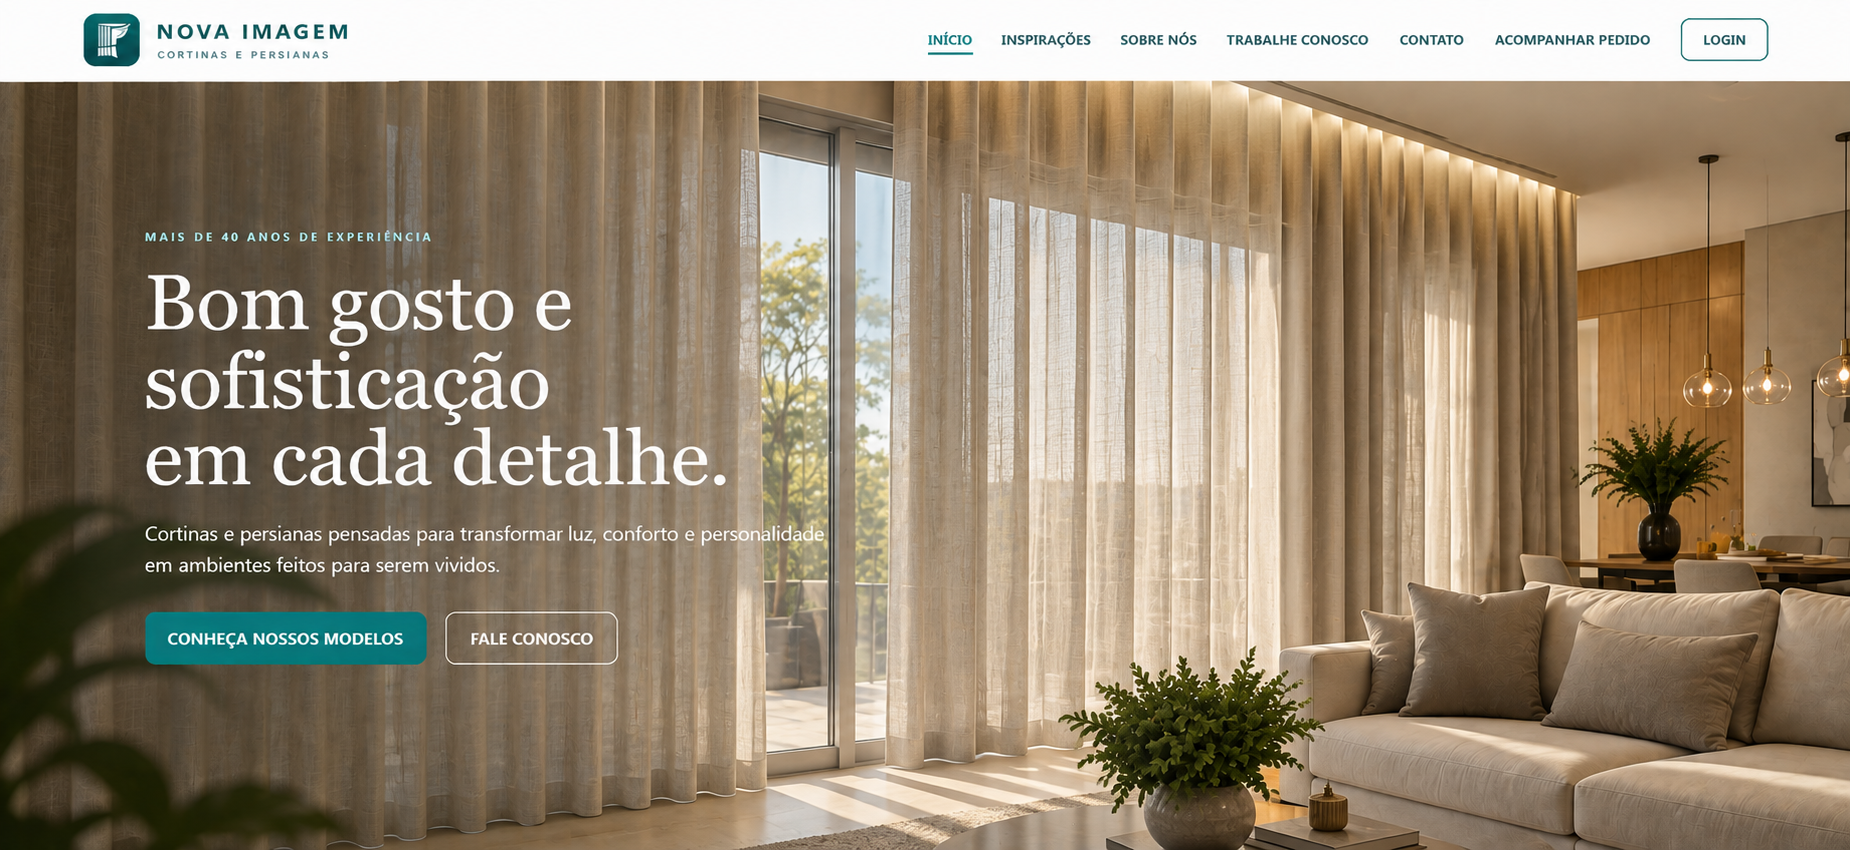
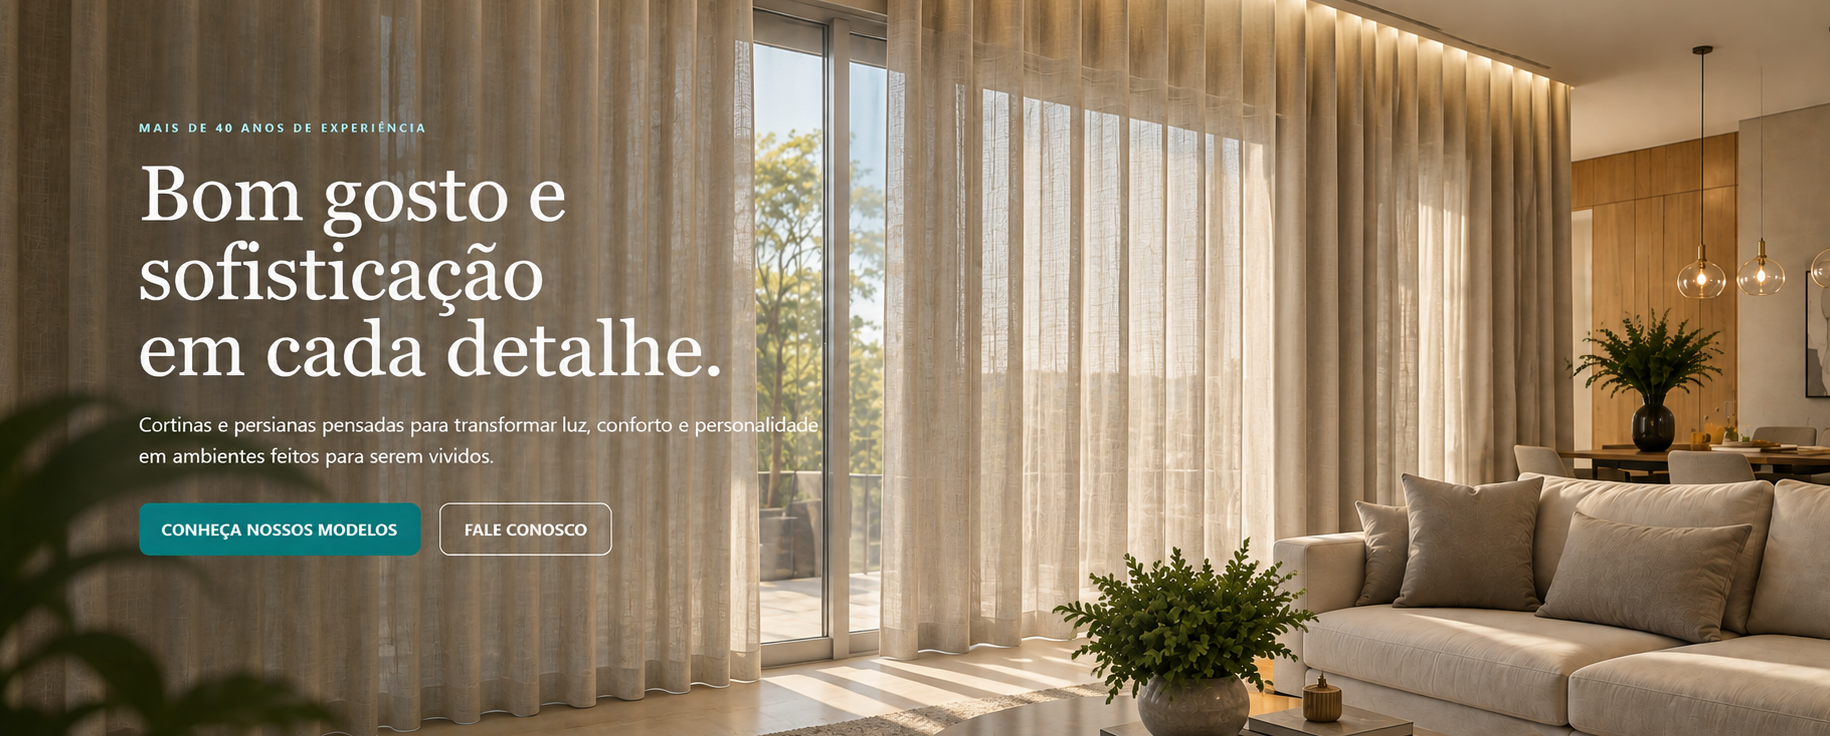
Add files via upload

diff --git a/app.js b/app.js
@@ -3523,3 +3523,97 @@ function payrollRows(competence){const h=hrData(),rows=[];for(const e of h.emplo
   const v126Boot=()=>setTimeout(()=>{v126BindOrderFilters();v126FillOrderSellers();v126SyncFixButton();v126BindFixButton();try{renderOrders()}catch(e){console.error('V12.6.1 renderOrders',e)}try{renderQuote()}catch(e){console.error('V12.6.1 renderQuote',e)}},300);
   if(document.readyState==='loading')document.addEventListener('DOMContentLoaded',v126Boot);else v126Boot();
 })();
+
+
+
+/* ============================================================================
+   V12.6.2 • CORREÇÃO DEFINITIVA DE AMBIENTE/FIXAÇÃO + CHECKLIST DE CONVERSÃO
+   ============================================================================ */
+(function(){
+  const V1262='V12.6.2';
+  try{companySettings().version=V1262}catch(_){}
+  let v1262ExcludeFixation=false;
+  let v1262EditingEnvId=null;
+  function v1262Set(id,val){const el=$(id);if(el&&val!==undefined&&val!==null)el.value=String(val)}
+  function v1262ApplyFixUi(){
+    const hidden=v1262ExcludeFixation;
+    ['eFixationWrap','eRailProductWrap','eFixColorWrap','eSupportMaterialWrap','eFinishTubeWrap','eLiningTubeWrap','eMotorAngleWrap'].forEach(id=>{
+      const el=$(id);if(!el)return;
+      if(hidden){if(el.dataset.v1262OldDisplay===undefined)el.dataset.v1262OldDisplay=el.style.display||'';el.style.display='none'}
+      else el.style.display=el.dataset.v1262OldDisplay||'';
+    });
+    const b=$('toggleEnvFixBtn');if(b){b.textContent=hidden?'RESTAURAR FIXAÇÃO':'EXCLUIR FIXAÇÃO';b.className='btn '+(hidden?'danger':'secondary')}
+    if(!hidden){try{typeof v12RefreshFixations==='function'&&v12RefreshFixations()}catch(_){}try{typeof updateModelFields==='function'&&updateModelFields()}catch(_){}}
+  }
+  const oldEnvFromForm1262=envFromForm;
+  envFromForm=function(){const e=oldEnvFromForm1262();e.excludeFixation=!!v1262ExcludeFixation;return e};
+  const oldClearEnv1262=clearEnv;
+  clearEnv=function(){const r=oldClearEnv1262();v1262ExcludeFixation=false;v1262EditingEnvId=null;if($('addEnvBtn'))$('addEnvBtn').textContent='+ Adicionar ambiente';v1262ApplyFixUi();try{updatePreview()}catch(_){}return r};
+  function v1262LoadEnvironment(e){
+    if(!e)return;v1262EditingEnvId=e.id;v1262ExcludeFixation=!!e.excludeFixation;
+    v1262Set('eModel',e.model);try{updateModelFields()}catch(_){}
+    v1262Set('eName',e.name);v1262Set('eWidth',e.width);v1262Set('eHeight',e.height);v1262Set('eLeaves',e.leaves);
+    v1262Set('eFinish',e.finish);try{refreshFinishColors()}catch(_){}v1262Set('eFinishColor',e.finishColor);v1262Set('eFinishPleat',e.finishPleat);v1262Set('eFinishGather',e.finishGather);
+    v1262Set('eLining',e.lining);try{refreshLiningColors()}catch(_){}v1262Set('eLiningColor',e.liningColor);v1262Set('eLiningPleat',e.liningPleat);v1262Set('eLiningGather',e.liningGather);
+    v1262Set('eFixation',e.fixation);try{refreshFixColors()}catch(_){}try{typeof v12RefreshFixations==='function'&&v12RefreshFixations()}catch(_){}
+    v1262Set('eRailProduct',e.railProductId||e.fixProductId||'');v1262Set('eFixColor',e.fixColor);v1262Set('eSupportMaterial',e.supportMaterial||'ALUMINIO');
+    v1262Set('eFinishTube',e.finishTubeProductId||e.finishTube||'');v1262Set('eLiningTube',e.liningTubeProductId||e.liningTube||'');
+    v1262Set('eFinishBar',e.finishBar||'BARRA SIMPLES');v1262Set('eSoutacheColor',e.soutacheColor||'');v1262Set('eCustomPleat',e.customPleat||0);v1262Set('eNotes',e.notes||'');
+    if($('eAngle')){$('eAngle').checked=!!e.angle;try{$('eAngle').dispatchEvent(new Event('change',{bubbles:true}))}catch(_){}}
+    v1262Set('eAngleA',e.angleA||'');v1262Set('eAngleAHeight',e.angleAHeight||'');v1262Set('eAngleB',e.angleB||'');v1262Set('eAngleBHeight',e.angleBHeight||'');v1262Set('eMotorAngleMode',e.motorAngleMode||'CURVA');
+    if($('addEnvBtn'))$('addEnvBtn').textContent='SALVAR EDIÇÕES';v1262ApplyFixUi();try{updatePreview()}catch(_){}$('eName')?.scrollIntoView({behavior:'smooth',block:'center'});
+  }
+  const oldRenderQuote1262=renderQuote;
+  renderQuote=function(){
+    oldRenderQuote1262();
+    document.querySelectorAll('#envTable [data-del-env]').forEach(del=>{
+      const id=String(del.dataset.delEnv||''),cell=del.closest('td')||del.parentElement;if(!cell)return;
+      let edit=cell.querySelector('[data-edit-env]');
+      if(!edit){edit=document.createElement('button');edit.type='button';edit.className='btn secondary';edit.dataset.editEnv=id;edit.textContent='Editar';edit.style.marginRight='6px';cell.insertBefore(edit,del)}
+      edit.onclick=()=>{const env=(draft.environments||[]).find(x=>String(x.id)===id);if(!env)return alert('Ambiente não encontrado.');v1262LoadEnvironment(env)};
+    });
+    v1262ApplyFixUi();
+  };
+  window.addEventListener('click',function(ev){
+    const t=ev.target;
+    if(t?.id==='toggleEnvFixBtn'){ev.preventDefault();ev.stopImmediatePropagation();v1262ExcludeFixation=!v1262ExcludeFixation;v1262ApplyFixUi();try{updatePreview()}catch(e){console.error('V12.6.2 preview fixação',e)}return}
+    if(t?.id==='addEnvBtn'&&v1262EditingEnvId){
+      ev.preventDefault();ev.stopImmediatePropagation();const e=envFromForm();
+      if(!e.name||!e.width||!e.height)return alert('Preencha ambiente, largura e altura.');
+      if(!e.excludeFixation&&e.fixation==='TRILHO SUÍÇO'&&!e.railProductId)return alert('Selecione o Tipo de Trilho no estoque oficial.');
+      const i=(draft.environments||[]).findIndex(x=>String(x.id)===String(v1262EditingEnvId));if(i<0)return alert('Ambiente não encontrado para edição.');
+      e.id=v1262EditingEnvId;draft.environments[i]=e;v1262EditingEnvId=null;v1262ExcludeFixation=false;renderQuote();clearEnv();return;
+    }
+  },true);
+  const oldConvertQuote1262=convertQuote;
+  function addr1262(q){return [[q.street,q.number].filter(Boolean).join(', '),q.complement,q.neighborhood,q.cep?`CEP ${q.cep}`:''].filter(Boolean).join(' • ')||q.address||'-'}
+  function cond1262(cond,installments){if(cond==='cash')return 'À VISTA (PIX/DINHEIRO)';if(cond==='p4')return 'EM ATÉ 4X';if(cond==='p18')return '18X';if(cond==='custom')return `OUTRO • ${Math.max(1,Number(installments||1))} parcela(s)`;return cond||'-'}
+  function envRow1262(e){
+    const details=[];details.push(e.model==='COMPLETE'?'Cortina completa':e.model==='LINING'?'Apenas forro':'Apenas acabamento');
+    if(e.finish)details.push(`Acabamento: ${e.finish}${e.finishColor?' / '+e.finishColor:''}${e.finishPleat?' / '+e.finishPleat+' '+(e.finishGather||'')+':1':''}`);
+    if(e.lining)details.push(`Forro: ${e.lining}${e.liningColor?' / '+e.liningColor:''}${e.liningPleat?' / '+e.liningPleat+' '+(e.liningGather||'')+':1':''}`);
+    if(e.finishBar)details.push(`Barra: ${e.finishBar}${e.soutacheColor?' / '+e.soutacheColor:''}`);
+    const fix=e.excludeFixation?'FIXAÇÃO EXCLUÍDA PARA ESTA PEÇA':[e.fixation,e.fixColor].filter(Boolean).join(' • ');
+    return `<tr><td><strong>${esc(e.name||'-')}</strong></td><td>${Number(e.width||0)} × ${Number(e.height||0)} cm</td><td>${Math.max(0,Number(e.leaves||1)-1)}</td><td>${details.map(esc).join('<br>')}</td><td>${esc(fix||'-')}</td></tr>`;
+  }
+  function installChecklist1262(q){
+    const btn=$('convGo');if(!btn||$('convChecklistBox'))return;
+    const box=document.createElement('div');box.id='convChecklistBox';box.style.cssText='margin:14px 0;border:1px solid #c7d8d6;border-radius:10px;overflow:hidden;background:#fff';
+    box.innerHTML=`<div style="background:#e8f3f1;color:#075b5b;font-weight:900;padding:10px 12px">CHECKLIST ANTES DE GERAR O PEDIDO</div><div style="padding:10px 12px"><div class="grid two" style="margin-bottom:10px"><div><small class="muted">NOME DO CLIENTE</small><br><strong>${esc(q.client||'-')}</strong></div><div><small class="muted">ENDEREÇO</small><br><strong>${esc(addr1262(q))}</strong></div><div><small class="muted">CONDIÇÃO ESCOLHIDA</small><br><strong id="convChecklistCondition">-</strong></div><div><small class="muted">DATA DE INSTALAÇÃO</small><br><strong id="convChecklistDate">-</strong></div><div><small class="muted">VALOR TOTAL DO PEDIDO</small><br><strong id="convChecklistTotal">-</strong></div></div><div style="font-weight:900;color:#075b5b;margin:8px 0 5px">RESUMO POR AMBIENTE</div><div class="table-wrap"><table class="table"><thead><tr><th>Ambiente</th><th>Largura × Altura</th><th>Aberturas</th><th>Detalhes / barra / cores</th><th>Fixação</th></tr></thead><tbody>${(q.environments||[]).map(envRow1262).join('')||'<tr><td colspan="5">Nenhum ambiente.</td></tr>'}</tbody></table></div><label style="display:flex;gap:8px;align-items:flex-start;margin-top:12px;font-weight:800"><input id="convChecklistOk" type="checkbox" style="margin-top:2px">CONFERI OS DADOS ACIMA E AUTORIZO A GERAÇÃO DO PEDIDO.</label></div>`;
+    btn.parentNode.insertBefore(box,btn);
+    function refresh(){const condition=$('convCond')?.value||'cash',installments=$('convInstallments')?.value||'',date=$('convDate')?.value||'',disc=Number($('convDiscount')?.value||0),t=quoteTotals(q);let base=condition==='cash'?t.cash:condition==='p18'?t.p18:t.p4;base=Number(base||0)*(1-disc/100);$('convChecklistCondition').textContent=cond1262(condition,installments);$('convChecklistDate').textContent=date?fmtDate(date):'NÃO INFORMADA';$('convChecklistTotal').textContent=money(base)}
+    ['convCond','convInstallments','convDate','convDiscount'].forEach(id=>{const el=$(id);if(el){el.addEventListener('input',refresh);el.addEventListener('change',refresh)}});refresh();
+    const original=btn.onclick;btn.onclick=async function(ev){if(!$('convChecklistOk')?.checked)return alert('Confira os dados e marque a confirmação do checklist antes de gerar o pedido.');if(btn.dataset.processing1262==='1')return;btn.dataset.processing1262='1';btn.disabled=true;const old=btn.textContent;btn.textContent='PROCESSANDO...';try{await original?.call(btn,ev)}finally{if(document.body.contains(btn)){btn.dataset.processing1262='0';btn.disabled=false;btn.textContent=old}}};
+  }
+  convertQuote=function(n){const existing=(db.orders||[]).find(o=>Number(o.quoteNumber)===Number(n));if(existing){alert(`Este orçamento já foi convertido no pedido ${String(existing.numero).padStart(6,'0')}.`);return}oldConvertQuote1262(n);const q=(db.quotes||[]).find(x=>Number(x.numero)===Number(n));if(q)setTimeout(()=>installChecklist1262(q),0)};
+  const oldRevertQuote1262=revertQuote;
+  revertQuote=async function(n){
+    const matches=(db.orders||[]).filter(o=>Number(o.quoteNumber)===Number(n));if(matches.length<=1)return oldRevertQuote1262(n);
+    const list=matches.map(o=>`Pedido ${String(o.numero).padStart(6,'0')} • ${money(o.agreedValue||0)}`).join('\n');const raw=prompt(`Foram encontrados ${matches.length} pedidos vinculados a este orçamento.\n\n${list}\n\nDigite o NÚMERO DO PEDIDO que deseja reverter:`);if(raw==null)return;
+    const order=matches.find(o=>Number(o.numero)===Number(String(raw).replace(/\D/g,'')));if(!order)return alert('Pedido informado não encontrado.');const idx=db.orders.findIndex(o=>String(o.id)===String(order.id));if(idx<0)return;if(!confirm(`Reverter somente o pedido ${String(order.numero).padStart(6,'0')}?`))return;
+    const officialRestore=await restoreOfficialStock(order);if(!officialRestore.ok)return alert(officialRestore.error);restoreOrderStock(order);db.products=(db.products||[]).filter(p=>Number(p.orderNumber)!==Number(order.numero));db.orders.splice(idx,1);
+    const q=(db.quotes||[]).find(x=>Number(x.numero)===Number(n)),remaining=(db.orders||[]).find(o=>Number(o.quoteNumber)===Number(n));if(q){q.status=remaining?'PEDIDO':'ORÇAMENTO';q.convertedOrderNumber=remaining?.numero||null}queueSave();renderAll();
+  };
+  setTimeout(()=>{try{renderQuote()}catch(e){console.error('V12.6.2 renderQuote',e)}v1262ApplyFixUi()},350);
+})();
+

diff --git a/index.html b/index.html
@@ -1,4 +1,4 @@
-<!doctype html><html lang="pt-BR"><head><meta charset="utf-8"><meta name="viewport" content="width=device-width,initial-scale=1"><title>Nova Imagem • V12.6</title><link rel="stylesheet" href="styles.css?v=12.6"><link rel="manifest" href="manifest.json"><meta name="theme-color" content="#0a6c69"><link rel="apple-touch-icon" href="apple-touch-icon.png"><link rel="icon" href="favicon-32.png"><style id="rc1InventoryPolish">
+<!doctype html><html lang="pt-BR"><head><meta charset="utf-8"><meta name="viewport" content="width=device-width,initial-scale=1"><title>Nova Imagem • V12.6.2</title><link rel="stylesheet" href="styles.css?v=12.6.2"><link rel="manifest" href="manifest.json"><meta name="theme-color" content="#0a6c69"><link rel="apple-touch-icon" href="apple-touch-icon.png"><link rel="icon" href="favicon-32.png"><style id="rc1InventoryPolish">
 .inventory-table-wrap{max-height:68vh;overflow:auto}.inventory-table thead th{position:sticky;top:0;z-index:3;background:#f3f8f7;white-space:nowrap}.inventory-table .check-col{width:54px;min-width:54px;text-align:center}.inventory-table .num-col{text-align:right;white-space:nowrap}.inventory-table th:nth-child(6),.inventory-table td:nth-child(6){min-width:180px}.inventory-table th:last-child,.inventory-table td:last-child{min-width:190px}.toolbar select{min-height:38px;border:1px solid #cfdad8;border-radius:8px;padding:0 10px;background:#fff}
 </style></head><body class="auth-locked">
 <div id="publicHome" class="public-home">
@@ -32,7 +32,7 @@
   </section>
   <section class="login-access">
     <div class="login-access-inner">
-      <div class="login-version">ERP NOVA IMAGEM&nbsp;&nbsp;|&nbsp;&nbsp;V12.6</div>
+      <div class="login-version">ERP NOVA IMAGEM&nbsp;&nbsp;|&nbsp;&nbsp;V12.6.2</div>
       <img class="login-app-icon" src="icon-512.png" alt="Nova Imagem">
       <h1>Acesso ao Sistema</h1>
       <p>Entre com seu usuário e senha<br>para acessar o ERP Nova Imagem.</p>
@@ -60,7 +60,7 @@
   </main>
 </div>
 <div id="clientPortal" class="client-portal hidden"><div class="client-portal-bg"></div><main class="client-portal-card"><div class="client-portal-head"><img src="icon-512.png" alt="Nova Imagem"><button id="clientPortalLogout" class="btn ghost">Sair</button></div><div id="clientPortalContent"></div></main></div>
-<div class="erp-shell"><aside class="sidebar no-print"><div class="brand" id="homeLogo" role="button" tabindex="0" title="Voltar ao início" style="cursor:pointer"><img class="app-icon" src="icon-512.png" alt="Nova Imagem"></div><nav class="nav" id="nav"></nav><div class="session"><small>Usuário conectado</small><strong id="sessionUser">-</strong><button id="logoutBtn" class="btn ghost" style="width:100%">Sair</button><div id="cloudStatus" class="cloud">Conectando à nuvem...</div></div></aside><main class="main"><section id="view-home" class="view active"><div class="card" style="max-width:900px;margin:9vh auto 0;text-align:center;padding:42px 28px"><img src="icon-512.png" alt="Nova Imagem" style="width:110px;height:110px;object-fit:contain"><h1 id="homeWelcome" style="margin:16px 0 4px;color:#075b5b">BEM-VINDO</h1><div style="font-weight:800;color:#075b5b;margin-bottom:6px">ERP NOVA IMAGEM • V12.6</div><div id="homeDate" class="muted" style="font-size:15px"></div><div id="homeTime" style="font-size:30px;font-weight:800;margin:4px 0 28px;color:#173638"></div><div id="discountApprovalAlerts"></div><div id="userHomeAlerts"></div><div id="agendaHomeAlerts"></div><div id="purchaseAlerts"></div><div style="border-top:1px solid #dce9e7;padding-top:24px"><blockquote id="homeQuote" style="margin:0 auto;max-width:680px;font-size:19px;line-height:1.5;font-style:italic;color:#315a5a"></blockquote><div id="homeQuoteAuthor" style="margin-top:10px;font-weight:750;color:#075b5b"></div></div></div></section>
+<div class="erp-shell"><aside class="sidebar no-print"><div class="brand" id="homeLogo" role="button" tabindex="0" title="Voltar ao início" style="cursor:pointer"><img class="app-icon" src="icon-512.png" alt="Nova Imagem"></div><nav class="nav" id="nav"></nav><div class="session"><small>Usuário conectado</small><strong id="sessionUser">-</strong><button id="logoutBtn" class="btn ghost" style="width:100%">Sair</button><div id="cloudStatus" class="cloud">Conectando à nuvem...</div></div></aside><main class="main"><section id="view-home" class="view active"><div class="card" style="max-width:900px;margin:9vh auto 0;text-align:center;padding:42px 28px"><img src="icon-512.png" alt="Nova Imagem" style="width:110px;height:110px;object-fit:contain"><h1 id="homeWelcome" style="margin:16px 0 4px;color:#075b5b">BEM-VINDO</h1><div style="font-weight:800;color:#075b5b;margin-bottom:6px">ERP NOVA IMAGEM • V12.6.2</div><div id="homeDate" class="muted" style="font-size:15px"></div><div id="homeTime" style="font-size:30px;font-weight:800;margin:4px 0 28px;color:#173638"></div><div id="discountApprovalAlerts"></div><div id="userHomeAlerts"></div><div id="agendaHomeAlerts"></div><div id="purchaseAlerts"></div><div style="border-top:1px solid #dce9e7;padding-top:24px"><blockquote id="homeQuote" style="margin:0 auto;max-width:680px;font-size:19px;line-height:1.5;font-style:italic;color:#315a5a"></blockquote><div id="homeQuoteAuthor" style="margin-top:10px;font-weight:750;color:#075b5b"></div></div></div></section>
 <section id="view-quote" class="view"><header class="topbar"><div><h1>Novo Orçamento</h1><p></p></div><div class="actions no-print"><button id="saveQuoteBtn" class="btn primary">Salvar orçamento</button><button id="savePrintBtn" class="btn secondary">Salvar e gerar PDF</button><button id="resetQuoteBtn" class="btn ghost">Zerar dados</button></div></header><div class="print-header print-only"><img src="icon-512.png"><h2 id="printQuoteTitle">ORÇAMENTO</h2></div>
 <div class="grid two"><section class="card"><div class="card-title">A • Dados do cliente</div><div class="grid two"><label class="field"><span id="qClientLabel">NOME</span><input id="qClient"></label><label class="field">Data<input id="qDate" type="date"></label><label class="field">Instalação sugerida<input id="qSuggestedInstall" type="date" disabled></label><label class="field"><span id="qDocumentLabel">CPF</span><input id="qDocument" inputmode="numeric" maxlength="14"></label><label class="field hidden" id="qFantasyWrap">NOME FANTASIA<input id="qFantasyName"></label><label class="field hidden" id="qStateRegWrap">INSCRIÇÃO ESTADUAL (opcional)<input id="qStateRegistration"></label><label class="field">Contato / Telefone<input id="qContact" inputmode="numeric"></label><label class="field">Logradouro<input id="qStreet"></label><label class="field">Número<input id="qNumber" inputmode="numeric"></label><label class="field">Complemento<input id="qComplement"></label><label class="field">Bairro<input id="qNeighborhood"></label><label class="field">CEP<input id="qCep" inputmode="numeric" maxlength="8"></label><label class="field">Vendedor<input id="qSeller"></label><label class="field">Deslocamento (R$)<input id="qTravel" type="number" min="0" step="0.01" value="0"></label><label class="field">Desconto no orçamento (%)<input id="qDiscount" type="number" min="0" max="100" step="0.01" value="0"></label><label class="field">Justificativa do desconto<textarea id="qDiscountReason" rows="2"></textarea></label></div></section><section class="card no-print"><div class="card-title">Resumo</div><div class="price-strip"><div class="price-box"><span>Ambientes</span><strong id="qCount">0</strong></div><div class="price-box"><span>18x</span><strong id="q18">R$ 0,00</strong></div><div class="price-box"><span>4x</span><strong id="q4">R$ 0,00</strong></div><div class="price-box"><span>À vista</span><strong id="qCash">R$ 0,00</strong></div></div><p id="quoteStatus" class="muted">Pronto para começar.</p></section></div>
 <section class="card no-print" style="margin-top:14px"><div class="card-title">B • Novo ambiente</div><div class="grid four"><label class="field">Ambiente<input id="eName" placeholder="Ex.: Sala de estar"></label><label class="field">Largura (cm)<input id="eWidth" type="number" min="1" max="600"></label><label class="field">Altura (cm)<input id="eHeight" type="number" min="1" max="1000"></label><label class="field">Nº de aberturas<select id="eLeaves"><option value="1">0 abertura</option><option value="2" selected>1 abertura</option><option value="3">2 aberturas</option><option value="4">3 aberturas</option><option value="5">4 aberturas</option><option value="6">5 aberturas</option></select></label><label class="field angle-toggle-field"><span>Cortina em ângulo</span><label class="angle-check"><input id="eAngle" type="checkbox"> CORTINA EM ÂNGULO (L)</label></label></div><div id="eAngleFields" class="grid four hidden" style="margin-top:10px"><label class="field">LADO A — Largura (cm)<input id="eAngleA" type="number" min="1"></label><label class="field">LADO A — Altura (cm)<input id="eAngleAHeight" type="number" min="1"></label><label class="field">LADO B — Largura (cm)<input id="eAngleB" type="number" min="1"></label><label class="field">LADO B — Altura (cm)<input id="eAngleBHeight" type="number" min="1"></label></div><div class="choice-row" style="margin-top:12px"><button class="choice" data-model="LINING"><strong>APENAS O FORRO</strong><small>Forro sem tecido de acabamento.</small></button><button class="choice" data-model="FINISH"><strong>APENAS O ACABAMENTO</strong><small>Tecido de acabamento sem forro.</small></button><button class="choice active" data-model="COMPLETE"><strong>CORTINA COMPLETA</strong><small>Acabamento + forro.</small></button></div><input id="eModel" type="hidden" value="COMPLETE">
@@ -102,4 +102,4 @@
 <section id="view-help" class="view"><header class="topbar"><div><h1>AJUDA</h1><p>Manual simples conforme as funções liberadas para seu usuário.</p></div></header><div id="helpContent"></div></section>
 <div class="footer"><span>Nova Imagem Cortinas & Persianas • ERP V11 • ERIC DELGOBO – SOLUÇÕES EM TECNOLOGIA</span><span>Bom gosto e sofisticação em cada detalhe</span></div></main></div>
 <div id="modal" class="modal-backdrop"><div class="modal"><button id="modalClose" class="close">×</button><div id="modalBody"></div></div></div>
-<script src="app.js?v=12.6.1"></script></body></html>
+<script src="app.js?v=12.6.2"></script></body></html>
